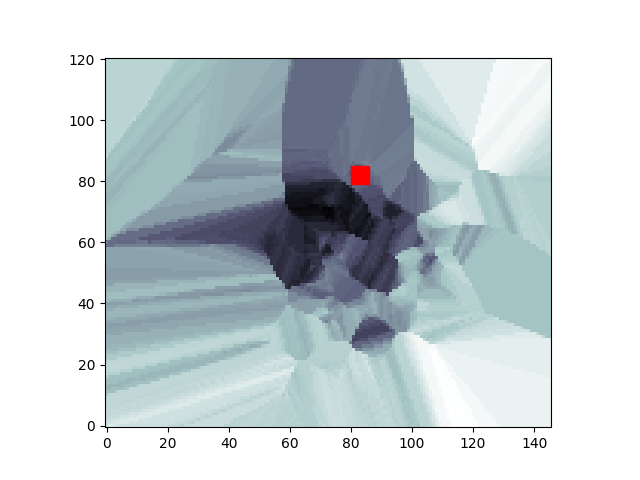
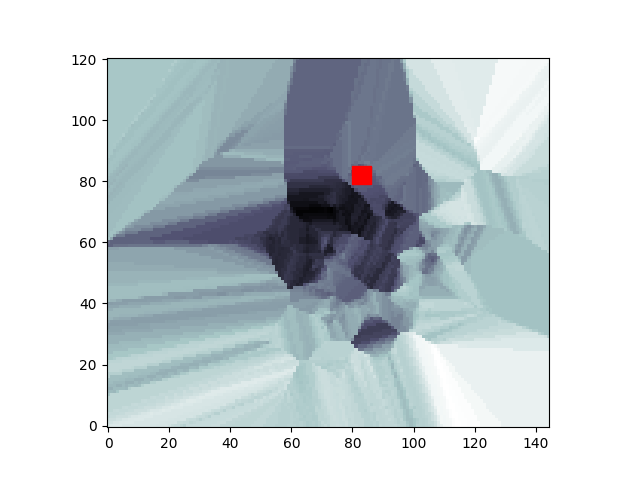
feat(metrics): adding charts and results calculations

diff --git a/src/locate.py b/src/locate.py
@@ -1,7 +1,11 @@
 import numpy as np
-from math import acos, sin, cos, radians
+import pandas as pd
+from math import acos, sin, cos, radians, sqrt
 import sys
 import time_advance
+import matplotlib.pyplot as plt
+from sklearn.metrics import mean_squared_error
+
 
 geoDist = lambda x, y: acos(sin(radians(x[0]))*sin(radians(y[0]))+cos(radians(x[0]))*cos(radians(y[0]))*cos(radians(x[1]-y[1]))) * 6378.1
 
@@ -31,17 +35,60 @@ def predict_test_locations(fingerprints, latitudes, longitudes, test, bts_pos):
     '''Locates users based on the BTS fingerprints and [lat, long] grid.
     '''
     errors = []
+    y_pred = []
     y = test.iloc[:, 1:3].values
     x = test.iloc[:, 3:9].values
+    ids = test.iloc[:, 0:1].values
     tas = test.iloc[:, 9:].values
 
     for i in range(x.shape[0]):
         lat, long = predict_location(fingerprints, latitudes, longitudes, x[i], bts_pos, tas[i])
-        error = geoDist((lat, long), (y[i][0], y[i][1]))
-        errors.append(error)
-        print('User {:d} located at {:.6f}, {:.6f}.'.format(i, lat, long))
+        y_pred.append([lat, long])
+        errors.append(geoDist((lat, long), (y[i][0], y[i][1]))*1000)
+        print('User {:d}/{:d} located.'.format(i, x.shape[0]))
 
     errors = np.array(errors)
+    y_pred = np.array(y_pred)
+    lats = [i[0] for i in y]
+    lons = [i[1] for i in y]
+    lat_preds = [i[0] for i in y_pred]
+    lon_preds = [i[1] for i in y_pred]
+
+    results = pd.DataFrame(data={
+        'error_loc': errors,
+        'lon_pred': lon_preds,
+        'lat_pred': lat_preds,
+        'lon': lons,
+        'lat': lats
+    }, index=[i[0] for i in ids])
+    results.index.name = "pontoId"
+    results = results.sort_index()
+    results.to_csv("results/results.csv")
+
+    min_error = np.min(errors)
+    max_error = np.max(errors)
+    mean_error = np.mean(errors)
     std = np.std(errors)
-    mse = np.mean((errors**2))
-    print('MSE: {:.3f} STD: {:.3f}'.format(mse, std))
+    mse = mean_squared_error(np.zeros(errors.size), errors)
+    rmse = sqrt(mse)
+
+    print("\n-- Results --\n")
+    print("Min Error: {:.2f}m".format(min_error))
+    print("Max Error: {:.2f}m".format(max_error))
+    print("Average Error: {:.2f}m".format(mean_error))
+    print("Standard Deviation: {:.2f}m".format(std))
+    print("Mean Squared Error: {:.2f}m".format(mse))
+    print("Root Mean Squared Error (Precision): {:.2f}m".format(rmse))
+
+    fig, ax = plt.subplots()
+    ax.hist(errors)
+    fig.savefig('results/metrics/error-histogram.png')
+
+    fig, ax = plt.subplots()
+    ax.boxplot(errors)
+    fig.savefig('results/metrics/error-boxplot.png')
+
+    fig, ax = plt.subplots()
+    ax.scatter(lons, lats, color="green", alpha=0.25)
+    ax.scatter(lon_preds, lat_preds, color="red", alpha=0.25)
+    fig.savefig('results/metrics/location-map.png')

diff --git a/src/grid.py b/src/grid.py
@@ -30,6 +30,8 @@ def build_location_grid(location_points):
     Latitudes will go from lower to higher location point. 
     Longitudes will go from leftmost to rightmost.
     '''
+    step_in_meters = 20.0
+
     y_min = min(location_points, key=lambda x: x[0])[0]
     y_max = max(location_points, key=lambda x: x[0])[0]
     x_min = min(location_points, key=lambda x: x[1])[1]
@@ -43,8 +45,8 @@ def build_location_grid(location_points):
     y_step = max(geoDist(down_left, up_left), geoDist(down_right, up_right))
     x_step = max(geoDist(down_left, down_right), geoDist(up_right, up_left))
 
-    lat_step = ((y_max - y_min) * 2e-2) / y_step
-    lon_step = ((x_max - x_min) * 2e-2) / x_step
+    lat_step = ((y_max - y_min) * (step_in_meters/1000)) / y_step
+    lon_step = ((x_max - x_min) * (step_in_meters/1000)) / x_step
 
     latitudes = np.arange(y_min - (lat_step * 10), y_max + (lat_step * 10), lat_step)
     latitudes = (latitudes[:-1] + latitudes[1:]) / 2

diff --git a/src/main.py b/src/main.py
@@ -32,6 +32,5 @@ def main():
 
     locate.predict_test_locations(fingerprints, latitudes, longitudes, test, bst_points)
 
-
 if __name__ == '__main__':
     main()
